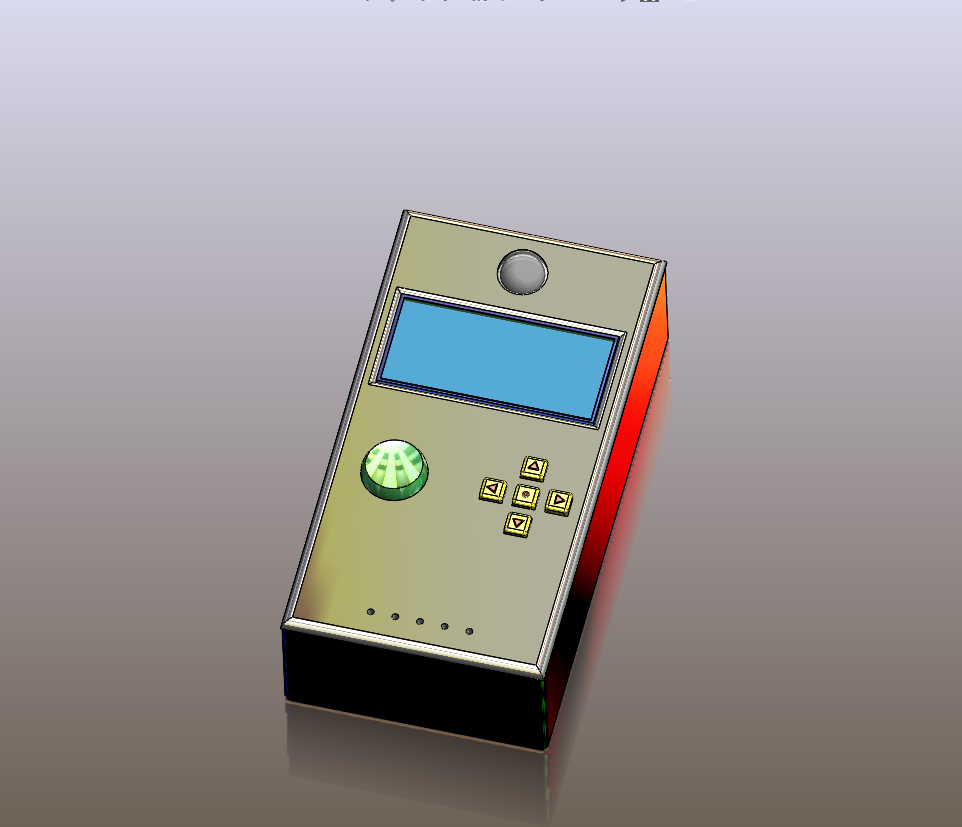
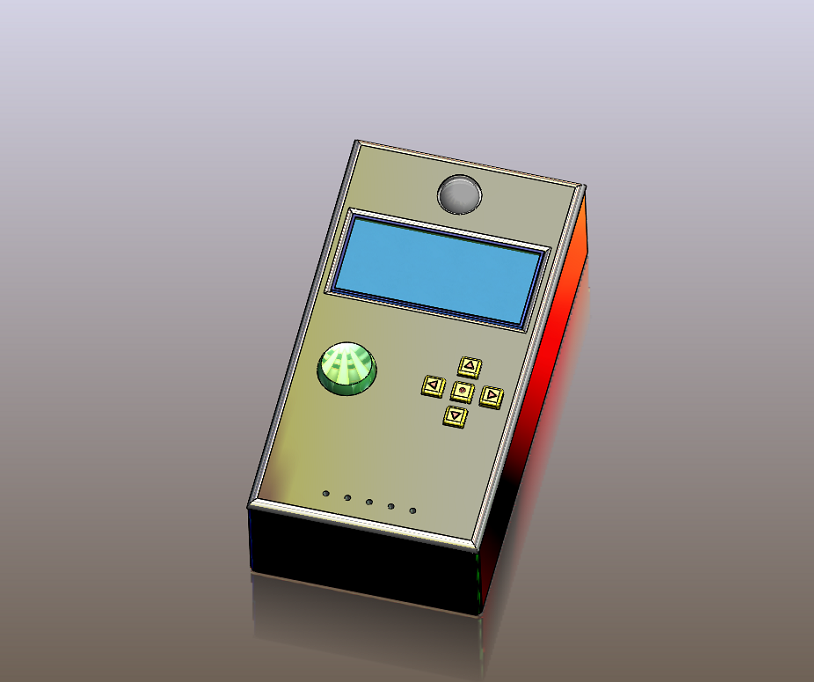
added new materials to the web site

Changed region(s): [[0.2764, 0.1848, 0.7371, 0.9545]]

diff --git a/website-template/index.html b/website-template/index.html
@@ -487,21 +487,21 @@
                                 <img src="img/front-end-view.png" alt="Blog">
                             </div>
                             <div class="blog-text">
-                                <h2>Control Unit</h2>
-                                <a class="btn" href="">Front End <i class="fa fa-angle-right"></i></a>
-                                <a class="btn" href="img/isometric-view.png">Isometric View <i class="fa fa-angle-right"></i></a>
+                                <h2>Control Unit - Front End</h2>
+                                <!-- <a class="btn" href="">Front End <i class="fa fa-angle-right"></i></a>
+                                <a class="btn" href="img/isometric-view.png">Isometric View <i class="fa fa-angle-right"></i></a> -->
                             </div>
                         </div>
                     </div>
                     <div class="col-lg-6">
                         <div class="blog-item wow fadeInUp" data-wow-delay="0.3s">
                             <div class="blog-img">
-                                <img src="img/blog-2.jpg" alt="Blog">
+                                <img src="img/isometric-view.png" alt="Blog">
                             </div>
                             <div class="blog-text">
-                                <h2>Smart Mail Box</h2>
-                                <a class="btn" href="">Front End <i class="fa fa-angle-right"></i></a>
-                                <a class="btn" href="">Isometric View <i class="fa fa-angle-right"></i></a>
+                                <h2>Control Unit - Isometric View</h2>
+                                <!-- <a class="btn" href="">Front End <i class="fa fa-angle-right"></i></a>
+                                <a class="btn" href="">Isometric View <i class="fa fa-angle-right"></i></a> -->
                             </div>
                         </div>
                     </div>
@@ -509,6 +509,18 @@
             </div>
         </div> -->
         <!-- 3D Model End -->
+
+        <!-- Circuti Diagram Start -->
+        <div class="experience" id="experience">
+            <div class="container">
+                <header class="section-header text-center wow zoomIn" data-wow-delay="0.1s">
+                    <p>How the modules are connected</p>
+                    <h2>Circuit Diagram</h2><br>
+                </header>
+            </div>
+            <img src="img/hardware-module-circuit-diagram.png"  style="display: block; margin-left: auto; margin-right: auto; width: 50%;" alt="Image">
+        </div>
+        <!-- Circuit Diagram End -->
     
          <!-- Timeline Start -->
         <div class="experience" id="experience">
@@ -971,56 +983,6 @@
             </div>
         </div>-->
         <!-- Price End -->
-        
-        
-        <!-- Testimonial Start -->
-        <!-- <div class="testimonial wow fadeInUp" data-wow-delay="0.1s" id="review">
-            <div class="container">
-                <div class="testimonial-icon">
-                    <i class="fa fa-quote-left"></i>
-                </div>
-                <div class="owl-carousel testimonials-carousel">
-                    <div class="testimonial-item">
-                        <div class="testimonial-img">
-                            <img src="img/testimonial-1.jpg" alt="Image">
-                        </div>
-                        <div class="testimonial-text">
-                            <p>
-                                Lorem ipsum dolor sit amet consec adipis elit. Etiam accums lacus eget velit tincid, quis suscip justo dictum. Lorem ipsum dolor sit amet consec adipis elit.
-                            </p>
-                            <h3>Customer Name</h3>
-                            <h4>Profession</h4>
-                        </div>
-                    </div>
-                    <div class="testimonial-item">
-                        <div class="testimonial-img">
-                            <img src="img/testimonial-2.jpg" alt="Image">
-                        </div>
-                        <div class="testimonial-text">
-                            <p>
-                                Lorem ipsum dolor sit amet consec adipis elit. Etiam accums lacus eget velit tincid, quis suscip justo dictum. Lorem ipsum dolor sit amet consec adipis elit.
-                            </p>
-                            <h3>Customer Name</h3>
-                            <h4>Profession</h4>
-                        </div>
-                    </div>
-                    <div class="testimonial-item">
-                        <div class="testimonial-img">
-                            <img src="img/testimonial-3.jpg" alt="Image">
-                        </div>
-                        <div class="testimonial-text">
-                            <p>
-                                Lorem ipsum dolor sit amet consec adipis elit. Etiam accums lacus eget velit tincid, quis suscip justo dictum. Lorem ipsum dolor sit amet consec adipis elit.
-                            </p>
-                            <h3>Customer Name</h3>
-                            <h4>Profession</h4>
-                        </div>
-                    </div>
-                </div>
-            </div>
-        </div>  -->
-        <!-- Testimonial End -->
-        
         
         <!-- Contact Start -->
         <!-- <div class="contact wow fadeInUp" data-wow-delay="0.1s" id="contact">
